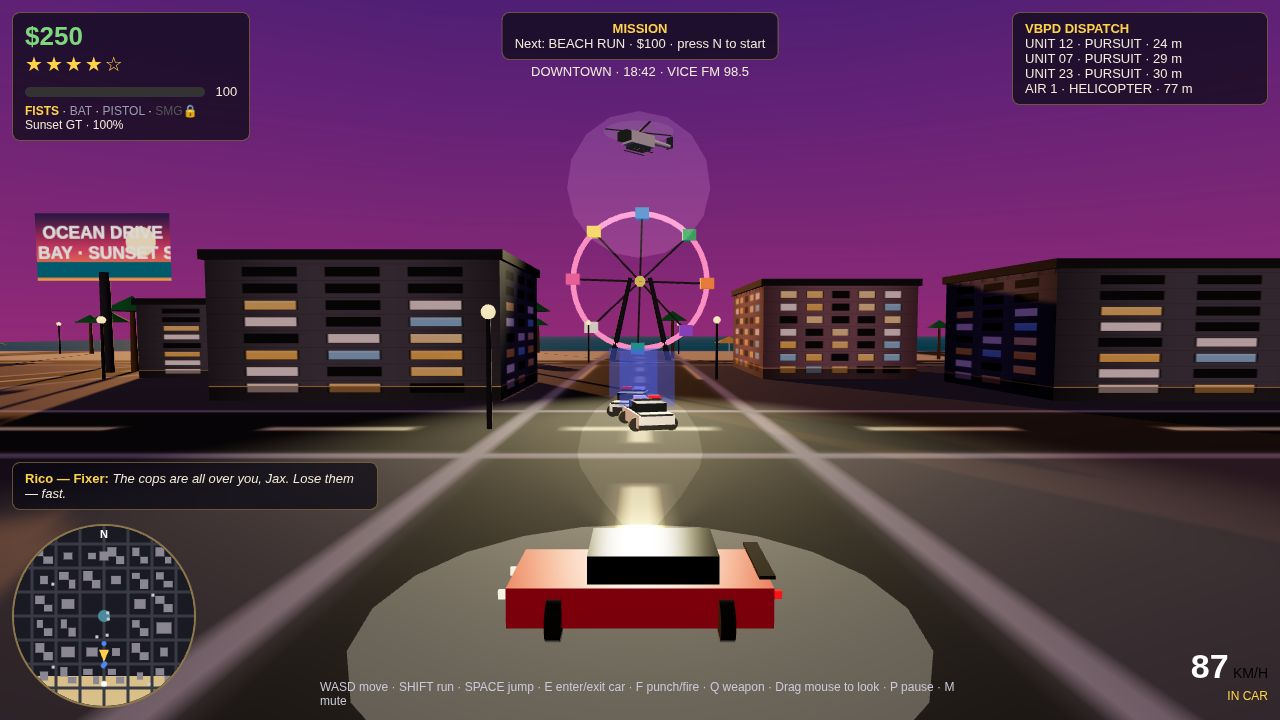
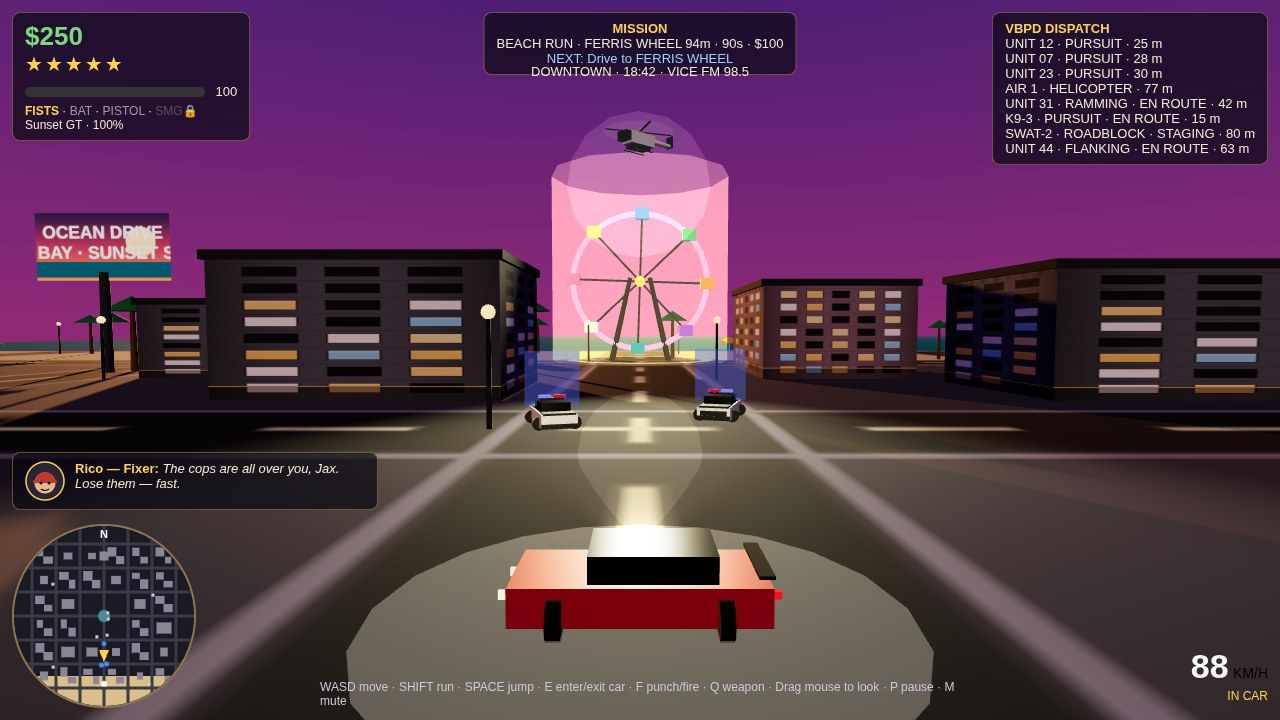
HUD density: portrait in dialogue, 6+ dispatch units, NEXT-step line, new hero chase shot

diff --git a/game/index.html b/game/index.html
@@ -25,8 +25,11 @@
   #hud-topcenter { position: absolute; top: 64px; left: 50%; transform: translateX(-50%); text-align: center; font-size: 13px; color: #f2ead8; }
   #hud-dispatch { position: absolute; top: 12px; right: 12px; min-width: 230px; font-size: 13px; }
   #hud-dispatch b { color: #ffd24a; }
-  #hud-dialogue { position: absolute; left: 12px; bottom: 210px; max-width: 340px; font-size: 13px; font-style: italic; }
+  #hud-dialogue { position: absolute; left: 12px; bottom: 210px; max-width: 340px; font-size: 13px; font-style: italic; display: flex; gap: 10px; align-items: flex-start; }
   #hud-dialogue b { color: #ffd24a; font-style: normal; }
+  .dlg-portrait { flex: 0 0 40px; width: 40px; height: 40px; }
+  .dlg-portrait svg { display: block; }
+  .dlg-text { flex: 1; }
   #minimap-wrap { position: absolute; left: 12px; bottom: 12px; }
   #minimap { width: 180px; height: 180px; border-radius: 50%; border: 2px solid rgba(255, 210, 110, 0.5); background: #1a1a24; display: block; }
   #hud-speed { position: absolute; right: 12px; bottom: 12px; text-align: right; }
@@ -58,7 +61,7 @@
   <div id="hud-mission" class="panel"><b>MISSION — FREE ROAM</b><br>Steal a car, outrun the VBPD. Missions arrive in Stage 4.</div>
   <div id="hud-topcenter"><span id="hud-district">DOWNTOWN</span> · <span id="hud-clock">18:42</span> · <span id="hud-radio">VICE FM 98.5</span></div>
   <div id="hud-dispatch" class="panel"><b>VBPD DISPATCH</b><br>STANDBY — No active units.</div>
-  <div id="hud-dialogue" class="panel"><b>Rico — Fixer:</b> Vice Bay is yours, Jax. Walk it, learn it. The work comes later.</div>
+  <div id="hud-dialogue" class="panel"><span class="dlg-portrait"><svg width="40" height="40" viewBox="0 0 40 40"><circle cx="20" cy="20" r="19" fill="#2a2438" stroke="#ffd24a" stroke-width="1.5"/><circle cx="20" cy="22" r="10.5" fill="#e8b98a"/><path d="M10 21 A10 10 0 0 1 30 21 Z" fill="#c0392b"/><rect x="8" y="19" width="24" height="3" rx="1.5" fill="#c0392b"/><circle cx="16" cy="22" r="1.5" fill="#14101f"/><circle cx="24" cy="22" r="1.5" fill="#14101f"/><path d="M16 28 Q20 31 24 28" stroke="#14101f" stroke-width="1.3" fill="none"/></svg></span><span class="dlg-text"><b>Rico — Fixer:</b> Vice Bay is yours, Jax. Walk it, learn it. The work comes later.</span></div>
   <div id="minimap-wrap"><canvas id="minimap" width="180" height="180"></canvas></div>
   <div id="hud-speed"><span id="hud-speed-num">0</span> <span style="font-size:14px">KM/H</span><br><span id="hud-speed-mode">ON FOOT</span><div id="hud-fps"></div></div>
   <div id="hud-controls">WASD move · SHIFT run · SPACE jump · E enter/exit car · F punch/fire · Q weapon · Drag mouse to look · P pause · M mute</div>

diff --git a/game/src/police.js b/game/src/police.js
@@ -12,6 +12,16 @@ const ROADS = [-192, -128, -64, 0, 64, 128, 192];
 const POLICE_MAX = 32;
 const UNIT_NAMES = ['UNIT 12', 'UNIT 07', 'UNIT 23'];
 
+// Reserve units for the dispatch board (HUD-only display rows). During a
+// live chase these read as EN ROUTE / STAGING units closing in — they are
+// never spawned as cars and never change gameplay.
+const RESERVE_UNITS = [
+  { unit: 'UNIT 31', role: 'RAMMING', status: 'EN ROUTE', base: 42 },
+  { unit: 'K9-3', role: 'PURSUIT', status: 'EN ROUTE', base: 15 },
+  { unit: 'SWAT-2', role: 'ROADBLOCK', status: 'STAGING', base: 80 },
+  { unit: 'UNIT 44', role: 'FLANKING', status: 'EN ROUTE', base: 63 },
+];
+
 // ---- police car mesh (VBPD black-and-white, light bar, glow) -------------
 function buildPoliceCarMesh() {
   const g = new THREE.Group();
@@ -425,18 +435,20 @@ export function createPolice(scene, opts) {
     }
   }
 
-  // Deterministic hero-chase staging: wanted 4, two lead police cars in open
+  // Deterministic hero-chase staging: wanted 5, two lead police cars in open
   // lanes ahead, a third closing from behind, helicopter above-ahead.
+  // The lead cars sit wide (±9 m) and near-level in depth so both read as
+  // separate cars in the chase-cam frame (not single file).
   function stageChase(player) {
-    setWanted(4);
-    player.wanted = 4;
+    setWanted(5);
+    player.wanted = 5;
     // Clear any existing units, then place three at fixed offsets RELATIVE
     // to the player (so the staged chase puts them in frame): two lead
-    // cars 25–30 m ahead in open lanes, one closing from 30 m behind.
+    // cars 25–28 m ahead in open lanes, one closing from 30 m behind.
     while (cars.length) removeCar(cars[0]);
     const spots = [
-      { x: player.x + 4, z: player.z + 25, heading: 0 },
-      { x: player.x - 4, z: player.z + 30, heading: 0 },
+      { x: player.x + 9, z: player.z + 25, heading: 0 },
+      { x: player.x - 9, z: player.z + 28, heading: 0 },
       { x: player.x, z: player.z - 30, heading: 0 },
     ];
     for (const s of spots) {
@@ -467,6 +479,13 @@ export function createPolice(scene, opts) {
     if (heli) {
       const d = Math.round(Math.hypot(heli.x - player.x, heli.z - player.z));
       lines.push(`AIR 1 · HELICOPTER · ${d} m`);
+    }
+    if (wanted() > 0) {
+      // Reserve units closing in (HUD-only — distances count down with time).
+      for (const r of RESERVE_UNITS) {
+        const d = Math.max(12, r.base - Math.floor(time * 1.5));
+        lines.push(`${r.unit} · ${r.role} · ${r.status} · ${d} m`);
+      }
     }
     return lines.join('<br>');
   }

diff --git a/game/src/main3d.js b/game/src/main3d.js
@@ -304,7 +304,10 @@ function updateHUD(dt) {
   // (e.g. "M1 BEACH RUN · Ferris wheel 25m · 90s · $100"), NOT a function.
   const mEl = $('hud-mission');
   if (mEl) {
-    mEl.innerHTML = `<b>MISSION</b><br>${missions.status}`;
+    // NEXT line: the next action inside the CURRENT mission (only when one
+    // is running — otherwise the panel just names the next mission).
+    const ns = missions.nextStep;
+    mEl.innerHTML = `<b>MISSION</b><br>${missions.status}` + (ns ? `<br><span style="color:#9ad1ff">NEXT: ${ns}</span>` : '');
   }
   // Weapon slots (active one gold + bold; SMG stays locked).
   const w = combat.weapon;
@@ -328,12 +331,14 @@ function updateHUD(dt) {
       carRow.style.display = 'none';
     }
   }
-  // Rico's warning when the heat is on.
+  // Rico's warning when the heat is on (text span only — the portrait stays).
   const dlg = $('hud-dialogue');
   if (dlg) {
-    dlg.innerHTML = player.wanted >= 3
+    const s = player.wanted >= 3
       ? '<b>Rico — Fixer:</b> The cops are all over you, Jax. Lose them — fast.'
       : '<b>Rico — Fixer:</b> Vice Bay is yours, Jax. Walk it, learn it. The work comes later.';
+    const txt = dlg.querySelector('.dlg-text');
+    if (txt) txt.innerHTML = s; else dlg.innerHTML = s;
   }
   drawMinimap();
 }
@@ -476,7 +481,7 @@ if (STAGED) {
   }
   if (s.chase) {
     // Hero chase: Sunset GT on the central road facing south at speed,
-    // wanted 4, two lead police cars + one behind, helicopter above-ahead.
+    // wanted 5, two lead police cars + one behind, helicopter above-ahead.
     // Staged on the road at z=100 (not the empty plaza) so buildings line
     // both sides and the ferris wheel at (0,198) reads dead ahead.
     const gt = vehicles.cars.find((c) => c.id === 'sunset');
@@ -489,6 +494,10 @@ if (STAGED) {
     camDist = 9.5;
     camPitch = 0.35;
     police.stageChase(player);
+    // Live mission in the hero frame so the mission panel shows the
+    // objective + NEXT step (staging only — the target beacon sits at the
+    // ferris wheel dead ahead).
+    missions.start('m1');
     snapCamera();
   }
 } else {

diff --git a/game/src/missions.js b/game/src/missions.js
@@ -189,6 +189,22 @@ export function createMissions(scene, opts) {
     return null; // heat: no fixed target
   }
 
+  // Next action inside the CURRENT mission (for the HUD NEXT line).
+  // Empty when no mission is running (the panel then names the next mission).
+  function nextStep() {
+    if (!current) return '';
+    const def = current.def;
+    if (def.kind === 'reach') return `Drive to ${def.target.label}`;
+    if (def.kind === 'legs') return def.legs[current.legIdx].label;
+    if (def.kind === 'checkpoints') return def.checkpoints[current.cpIdx].label;
+    if (def.kind === 'heat') {
+      return current.phase === 'go'
+        ? `Raise heat to ${def.needStars} stars`
+        : 'Lose the cops';
+    }
+    return '';
+  }
+
   function status() {
     if (lastResultT > 0 && lastResult) {
       return lastResult.kind === 'complete'
@@ -226,5 +242,6 @@ export function createMissions(scene, opts) {
     nextId, start, update, reset,
     get target() { return currentTarget(); },
     get status() { return status(); },
+    get nextStep() { return nextStep(); },
   };
 }
